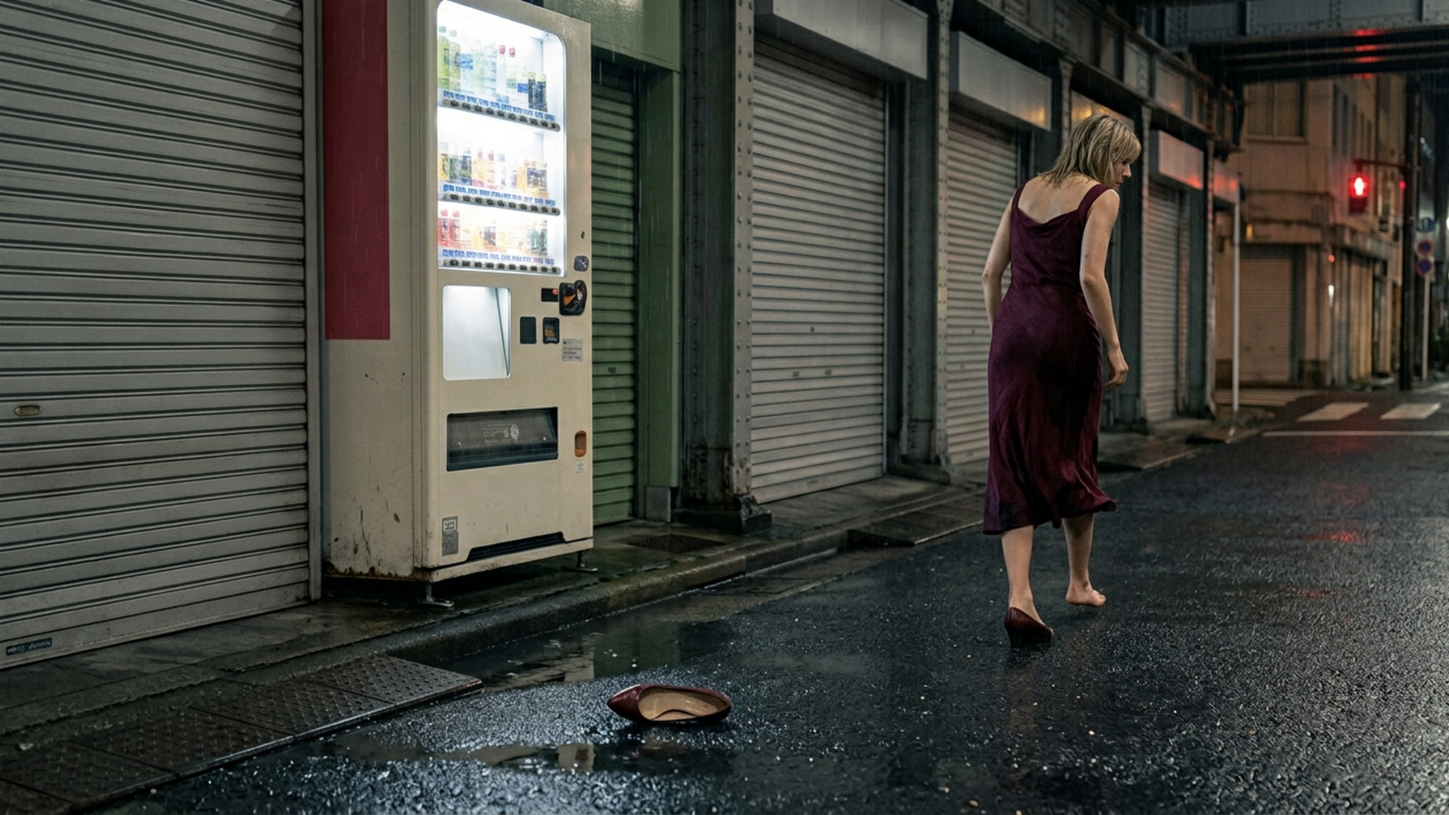
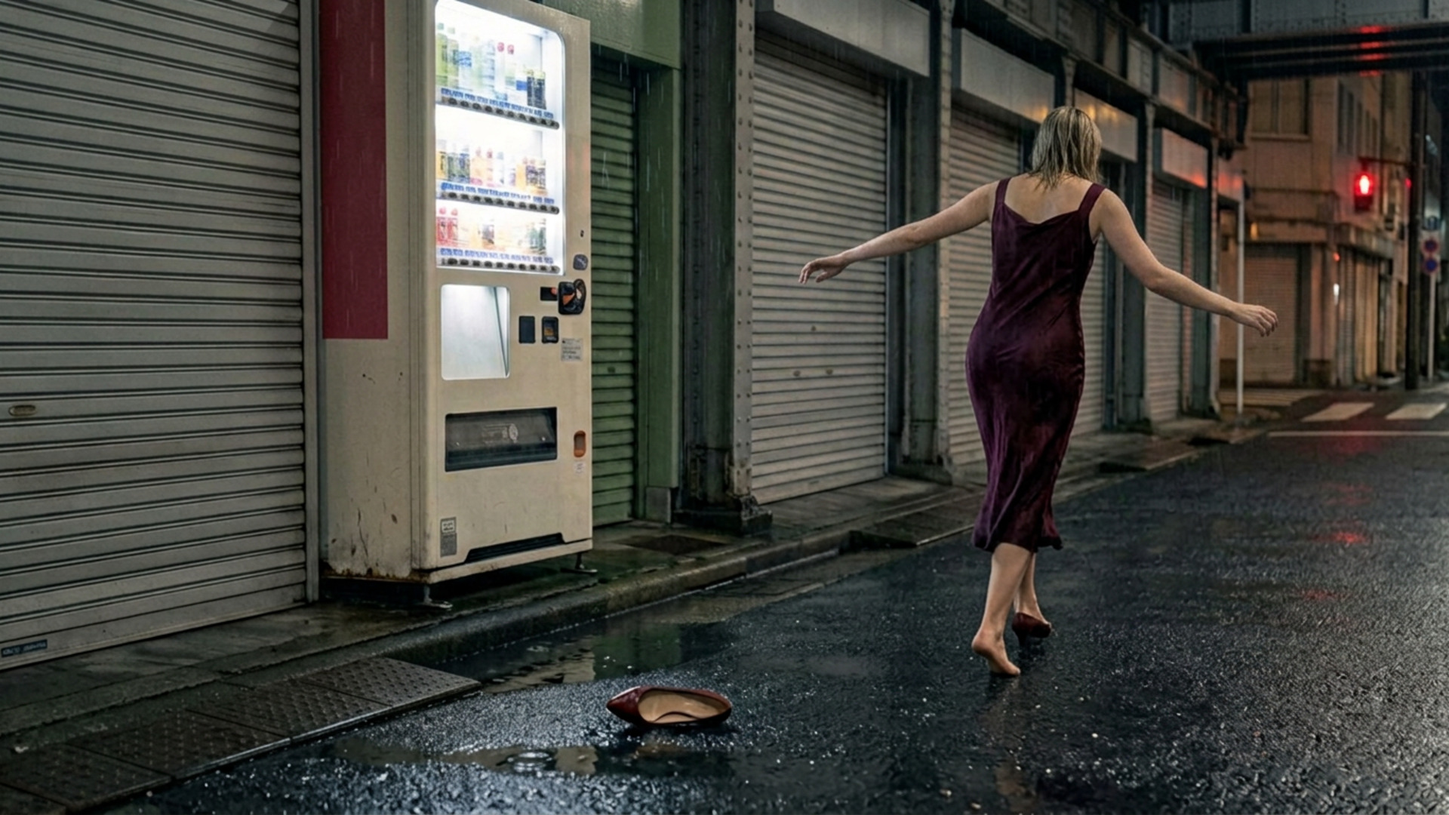
Tokyo Story colour revision, session two: scenes 72–75 keyframes complete
Eight generation calls (two slots held back): the six pending replacements —
69-vera-runs, 71-the-machine-glows, 76-the-reflection, 79-the-hive-shut,
80-the-machine-waits, 81-static-in-a-window — plus two continuity replacements
the previous session's review failed: 72-the-lost-heel regenerated to match the
shot-79 puddle/drain/shoe lock with a real stumble, and 74-twenty-metres-apart
regenerated so the scripted twenty-metre separation is actually pictured at
distance (the old study staged ~5m and carried a stray red smear).

All frames static, low and level; 50mm throughout, 35mm kept only for the
aftermath extreme wide. Makeup dry and pretty until the rain; RIGHT foot bare,
LEFT shoe retained after the skid. 86/86 keyframes now on disk, no placeholders.
Boards, scene metadata, pass index, handoff and revision ledger updated;
streetsPassTwoImages is the session-two audit list; verify asserts completion.

diff --git a/docs/neonoire/passes/tokyo-streets-revision.md b/docs/neonoire/passes/tokyo-streets-revision.md
@@ -1,12 +1,73 @@
-# Scenes 72–75 — Tokyo Story in colour, revision session 1
+# Scenes 72–75 — Tokyo Story in colour, revision session 2
 
-**25 September 2026 · 10 generation calls used · 9 shot images + 1 Jack identity sheet**
+**25 September 2026 · 8 generation calls used · 6 needed shots + 2 continuity replacements**
 
-The user requested replacement images, character/location continuity, pretty makeup until the rain, 16:9, and camera changes toward *Tokyo Story* without black and white. The previous street images and old rain/cutaway style keys were **not** generation references. The screenplay remains byte-for-byte unchanged.
+Session one left six empty slots and two keyframes that did not hold up under review. This session
+completes the sequence. The user asked for the needed shots, replacements for anything that did not
+seem right, character and scene consistency, pretty makeup until the rain, 16:9, and a *Tokyo Story*
+style (in colour) carried through the lens selection: static, low and **level**, normal 50mm — 35mm
+only for the aftermath extreme wide. The screenplay remains byte-for-byte unchanged.
 
 ## Delivered
 
-All ten generated masters are delivered as full-bleed **1920×1080 JPEG**. Jack's face crop and the review contact sheet are derived from those masters, not additional generation calls.
+All eight generated masters are delivered as full-bleed **1920×1080 JPEG**; two generation slots were
+deliberately unused. No new cast sheets were needed.
+
+| Board shot | Scene | Image under `public/images/neonoire/` | Notes / continuity |
+| --- | --- | --- | --- |
+| 71 | 73 | `s73/69-vera-runs.jpg` | Hotel threshold; makeup still pretty and intact, both shoes; amber doorway vs cold street |
+| 73 | 73 | `s73/71-the-machine-glows.jpg` | Static machine frame from the run master; Vera passes L→R; both shoes; thin washed mascara |
+| 74 | 73 | `s73/72-the-lost-heel.jpg` | **Continuity replacement** — regenerated so puddle, drain, kerb and shoe orientation match `s75/77-the-red-shoe.jpg`; genuine stumble, RIGHT bare / LEFT shod |
+| 75 | 74 | `s74/74-twenty-metres-apart.jpg` | **Continuity replacement** — the scripted twenty-metre stop now actually pictured at distance; the old study staged ~5m and carried a stray red smear on the asphalt |
+| 78 | 74 | `s74/76-the-reflection.jpg` | Water-level insert; inverted street with warm anomalies and an unreadable pale-blue umbrella figure; no person directly visible |
+| 81 | 75 | `s75/79-the-hive-shut.jpg` | Intact closed Hive; dim unreadable sign; no people, no demolition |
+| 82 | 75 | `s75/80-the-machine-waits.jpg` | Same ivory machine, matched panels; nobody, no relocated shoe |
+| 83 | 75 | `s75/81-static-in-a-window.jpg` | Grey CRT static in a colour night; no face, no programme; then CUT TO BLACK |
+
+Review: `public/images/neonoire/reviews/tokyo-story-72-75-pass-2.jpg` — all fifteen scenes 72–75
+frames plus Jack's face sheet.
+
+## Superseded images
+
+The session-one `s73/72-the-lost-heel.jpg` (calm walk, barely raining, shoe adrift mid-road away from
+the drain its own pillow shot had locked) and `s74/74-twenty-metres-apart.jpg` (~5m separation, red
+smear) are **replaced on disk**; the old files no longer exist anywhere in the tree and must not be
+restored or referenced.
+
+## State after this session
+
+Every scene 72–75 keyframe is on disk — **86 of 86 active keyframes board-wide, no placeholders**.
+Remaining revision work elsewhere is unchanged: cold-open shots 11–28 and scene 3 are still legacy
+2.39:1 studies awaiting their own 16:9 pass.
+
+## Locks (unchanged)
+
+- **Vera:** canonical face; wine-red silk broad-strap cowl-neck calf-length dress; makeup dry and
+  pretty through scene 72, washed by rain into thin mascara trails only outdoors; RIGHT foot bare /
+  LEFT shoe retained from the skid onward; no coat or umbrella on the street.
+- **Jack:** `sheets/jack.jpg`; 48, Japanese casting, charcoal knee-length coat, dark unwashed hands;
+  screen-right of Vera; never retaliates.
+- **Geography:** run machine (muted red side panel, right payment panel, dull-green shutter, drain,
+  shallow gutter) and confrontation street (two machines left, awning right) as locked in session one.
+- **Camera:** all static, low and level; 50mm except `neonoire-shot-73` at 35mm. No tracking, no
+  hero angles, no black-and-white, no glossy neon.
+
+## Integration
+
+Stable frame IDs and asset names are unchanged; the two replaced files keep their names. The builder
+marks the eight session-two images in each frame's notes, and the mood board now carries all fifteen
+studies. `streetsPassTwoImages` in `scripts/neonoire/streets-look.mjs` is the session-two audit list.
+
+```bash
+npm run build:neonoire
+npm run verify:neonoire
+npm run check:assets
+```
+
+
+## Session one archive — delivered
+
+All ten generated masters were delivered as full-bleed **1920×1080 JPEG**. Jack's face crop and the review contact sheet are derived from those masters, not additional generation calls.
 
 | Board shot | Scene | Image under `public/images/neonoire/` | References / continuity |
 | --- | --- | --- | --- |
@@ -23,9 +84,9 @@ All ten generated masters are delivered as full-bleed **1920×1080 JPEG**. Jack'
 
 Review: `public/images/neonoire/reviews/tokyo-story-72-75-pass-1.jpg`.
 
-## Next session — six replacements, not six finished images
+## Session one archive — the six slots (all delivered in session two)
 
-All six superseded files have been removed; their cards are empty, labelled **keyframe missing**, **Needs review**. Do not restore or borrow an older image to satisfy an asset check.
+At the end of session one all six superseded files had been removed; their cards were empty, labelled **keyframe missing**, **Needs review**. Session two generated every one of them at the exact paths below — none was restored or borrowed from an older image.
 
 | Board shot | Stable frame ID | Scene | Required image | Brief |
 | --- | --- | --- | --- | --- |
@@ -36,9 +97,9 @@ All six superseded files have been removed; their cards are empty, labelled **ke
 | 82 | `neonoire-shot-80` | 75 | `s75/80-the-machine-waits.jpg` | Same ivory machine from new run master, nobody |
 | 83 | `neonoire-shot-81` | 75 | `s75/81-static-in-a-window.jpg` | Grey CRT static, no human reflection, then black |
 
-Self-contained generation briefs: [pass 8](pass-8.md), [pass 9](pass-9.md). These are **board-index groups**, not a claim that the first revision session generated sequential shots. Finish all six within one later ten-image session; Jack need not be regenerated.
+Self-contained generation briefs: [pass 8](pass-8.md), [pass 9](pass-9.md) — both now historical, marked completed. These were **board-index groups**, not a claim that the first revision session generated sequential shots. The six were finished in session two alongside the two continuity replacements; Jack was not regenerated.
 
-## Locks
+## Session one archive — locks
 
 - **Vera:** canonical ash-blonde face/fringe/blue eyes. The new wine-red silk dress has broad straps, a modest cowl neck, calf-length bias-cut skirt, no slit. Low wine-red closed-toe court heels. No change of face or neckline between dry/wet states.
 - **Makeup:** dry, groomed, pretty and intact in 72. Only outdoor rain undoes it in 73; thin washed mascara, not a horror mask. Keep the same face beneath it.
@@ -49,13 +110,13 @@ Self-contained generation briefs: [pass 8](pass-8.md), [pass 9](pass-9.md). Thes
 - **Camera:** all static, low **and level**. `Low, level` is now an actual app angle, not the old low-angle prompt that tilts up and makes a subject powerful. 50mm except 35mm for the distant aftermath. One earned frontal face shot in the lounge; no camera chases or comforts Vera.
 - **Colour:** muted olive, tobacco amber, ivory practical light, black rainwater and wine red. No black-and-white or glossy neon treatment.
 
-## Review caveats
+## Session one archive — review caveats
 
 These are AI-generated draft studies, not approved coverage. Shot 75's image studies the approach at a closer distance, not the scripted initial twenty-metre stop. Stage that opening distance explicitly. Shot 76's keyframe samples the blow, while its take must also cover folding and rejection. Shot 77 samples the distant aftermath; the reflection insert returns to that same camera for the train and late score. Precise clock hands remain a prop/compositing check.
 
 The generated call image invented a second counter at the bottom; the delivered image is a chest-up reframe excluding it. Use **the waiting master**, not the uncropped call generation, as the hotel layout reference. No extra generation was used to make the crop.
 
-## Integration
+## Session one archive — integration
 
 Scene 72 adds two board positions. Global display numbers are now **1–86**, but all existing frame IDs and asset names stay stable, including scene 76's unchanged IDs 82–84. Never infer the running order from a filename prefix or a frame ID. The board's `ID:` field makes this explicit.
 

diff --git a/docs/neonoire/handoff.md b/docs/neonoire/handoff.md
@@ -2,9 +2,9 @@
 
 ## Current state — 25 September 2026
 
-The final screenplay is `Neonoire (3).fountain`: **100 scenes**, unchanged. The numbered board covers **12 scenes, 86 shots**: scenes 1–7 and 72–76. **80 shot images are active; six replacement slots are empty.** All newly delivered images are full-bleed 16:9, 1920×1080 JPEG.
+The final screenplay is `Neonoire (3).fountain`: **100 scenes**, unchanged. The numbered board covers **12 scenes, 86 shots**: scenes 1–7 and 72–76. **All 86 shot images are on disk; no placeholder slots remain.** All images are full-bleed 16:9, 1920×1080 JPEG.
 
-The current task is the [Tokyo Story colour revision of scenes 72–75](passes/tokyo-streets-revision.md), not the old streets pass. Read that ledger first: it records exactly ten generation calls (Jack + nine shots), the six remaining replacements, the new masters and honest production-review caveats.
+The [Tokyo Story colour revision of scenes 72–75](passes/tokyo-streets-revision.md) is **complete in two sessions**: ten generation calls (Jack's sheet + nine shots), then eight (the six remaining replacements plus the lost-heel and twenty-metre continuity replacements). Read that ledger for the masters, the locks and the honest production-review caveats.
 
 | Material | Location |
 | --- | --- |
@@ -16,16 +16,20 @@ The current task is the [Tokyo Story colour revision of scenes 72–75](passes/t
 | Importable project | `public/projects/neonoire-opening.json` |
 | Remaining generation prompts | [pass 8](passes/pass-8.md), [pass 9](passes/pass-9.md) |
 
-## Next images: six, within one later ten-image session
+## Next images: none in scenes 72–75 — the revision is complete
+
+Session two delivered the six pending shots and replaced two that failed review:
 
 1. Board 71 — `s73/69-vera-runs.jpg`: hotel exit, makeup still mostly intact, both shoes.
 2. Board 73 — `s73/71-the-machine-glows.jpg`: Vera passes through a static machine frame.
-3. Board 78 — `s74/76-the-reflection.jpg`: umbrella only in an ambiguous reflection, face never resolved.
-4. Board 81 — `s75/79-the-hive-shut.jpg`: intact closed Hive, no people, not yet demolished.
-5. Board 82 — `s75/80-the-machine-waits.jpg`: same new ivory machine, nobody.
-6. Board 83 — `s75/81-static-in-a-window.jpg`: grey CRT static in a colour night, no people, then black.
+3. Board 74 — `s73/72-the-lost-heel.jpg` **(replaced)**: regenerated to match shot 79's locked puddle, drain and shoe orientation; a real stumble, RIGHT foot bare.
+4. Board 75 — `s74/74-twenty-metres-apart.jpg` **(replaced)**: the scripted twenty-metre separation now actually pictured at distance; the old ~5m study and its asphalt smear are gone.
+5. Board 78 — `s74/76-the-reflection.jpg`: umbrella only in an ambiguous reflection, face never resolved.
+6. Board 81 — `s75/79-the-hive-shut.jpg`: intact closed Hive, no people, not yet demolished.
+7. Board 82 — `s75/80-the-machine-waits.jpg`: same new ivory machine, nobody.
+8. Board 83 — `s75/81-static-in-a-window.jpg`: grey CRT static in a colour night, no people, then black.
 
-The old versions were deliberately removed at the user's request. Do not restore them, substitute neighbouring images or call these slots finished. Jack has a completed sheet and does not need another generation.
+Do not regenerate these without a new instruction, and do not restore any superseded image. Jack has a completed sheet and does not need another generation. What still awaits its own pass: cold-open shots 11–28 and scene 3 (legacy 2.39:1 studies), tracked in [cold-open-revision.md](passes/cold-open-revision.md).
 
 ## Camera and look
 
@@ -38,10 +42,15 @@ The confrontation runs **stop/approach → chest blows, folding and rejected tou
 For this sequence, attach **new masters and cast sheets only**. Ignore the superseded street pictures and older rain/cutaway style keys:
 
 - `s72/69-the-wait.jpg`: hotel, dry hair/makeup and wine-red silk dress.
+- `s73/69-vera-runs.jpg`: the hotel threshold; makeup still pretty, both shoes.
 - `s73/70-not-elegantly-badly.jpg`: rainy run, ivory machine/green shutter/railway geography.
-- `s73/72-the-lost-heel.jpg`: shoe, shallow puddle, kerb and drain.
-- `s74/74-twenty-metres-apart.jpg`: confrontation architecture; the pictured approach is closer than the initial scripted 20m stop.
+- `s73/71-the-machine-glows.jpg`: the machine frame with Vera passing; both shoes.
+- `s73/72-the-lost-heel.jpg`: shoe, shallow puddle, kerb and drain — session-two version matching `s75/77-the-red-shoe.jpg`.
+- `s74/74-twenty-metres-apart.jpg`: confrontation architecture; session-two version with the scripted 20m gap on screen.
+- `s74/75-one-desperate-blow.jpg`: the chest blow at bystander distance.
 - `s74/73-two-small-figures.jpg`: distant separated aftermath.
+- `s74/76-the-reflection.jpg`: the almost-reflection, water only.
+- `s75/77-the-red-shoe.jpg`, `s75/78-the-empty-lounge.jpg`, `s75/79-the-hive-shut.jpg`, `s75/80-the-machine-waits.jpg`, `s75/81-static-in-a-window.jpg`: the five pillow shots.
 
 ## Character continuity
 

diff --git a/docs/neonoire/scenes/n73-tokyo-streets.md b/docs/neonoire/scenes/n73-tokyo-streets.md
@@ -8,7 +8,7 @@ The [screenplay page](../screenplay/n73-tokyo-streets-night.md) is unchanged.
 
 Vera's face is locked to `sheets/vera-face.jpg`; dress and shoes to the new `s72/69-the-wait.jpg`. Her pretty intact makeup survives the lounge and begins to wash away only after she enters rain. Thin diluted mascara trails, wet shoulder-length hair, no horror-mask streaks. **RIGHT shoe is lost; LEFT shoe remains** from shot 74 onward. The screenplay does not specify a side; this is the image-continuity lock.
 
-First session: **72 and 74 replaced**. **71 and 73 await regeneration**; old images have been removed from the active board. Asset prefixes and stable IDs retain the older numbering; the displayed shot numbers below include the newly boarded scene 72.
+First session: **72 and 74 replaced**. Second session (this pass): **71 and 73 replaced** — all four shots of scene 73 are now regenerated in the revised grammar; the old 35mm tracking studies are gone entirely.
 
 ---
 
@@ -20,7 +20,7 @@ LIGHT: Practical night
 TIME: 10
 ID: neonoire-shot-69
 IMAGE: 69-vera-runs.jpg
-NOTE: REPLACEMENT PENDING — generate from the NEW hotel master s72/69-the-wait.jpg and sheets/vera-face.jpg, not the discarded street study. The pale-blue umbrella stays inside the hotel; no bag or coat appears on Vera. Camera stays low and level, not an upward hero angle. No score.
+NOTE: Replacement generated in session two from the NEW hotel master s72/69-the-wait.jpg and sheets/vera-face.jpg, not the discarded street study. The pale-blue umbrella stays inside the hotel; no bag or coat appears on Vera. Camera stays low and level, not an upward hero angle. Makeup is still pretty and intact at the threshold; only the rain undoes it. No score.
 
 72. FULL — 50mm, static, low level — badly, in heels.
 From a locked low level camera at 75cm, Vera's full figure stumbles through a still architectural frame beside a scuffed ivory vending machine and dull-green shutter under riveted railway beams. Her right hand briefly presses her chest because she cannot breathe, and she forces herself onward. Same wine-red cowl-neck calf-length silk dress, both low red court shoes still on. Rain plasters her ash-blonde fringe and begins washing the mascara into thin natural trails. The machine's cold white light, not the sky, finds her face.
@@ -40,7 +40,7 @@ LIGHT: Practical night
 TIME: 8
 ID: neonoire-shot-71
 IMAGE: 71-the-machine-glows.jpg
-NOTE: REPLACEMENT PENDING — use NEW s73/70-not-elegantly-badly.jpg for machine geometry and sheets/vera-face.jpg for identity, never the old image or an old style key. No tracking. Hold the architecture after she passes; this sets up the empty-machine pillow shot 82.
+NOTE: Replacement generated in session two from NEW s73/70-not-elegantly-badly.jpg for machine geometry and sheets/vera-face.jpg for identity, never the old image or an old style key. No tracking. She still wears BOTH shoes here; mascara has begun to wash into thin trails. Hold the architecture after she passes; this sets up the empty-machine pillow shot 82.
 
 74. FULL — 50mm, static, low level — one shoe left behind.
 A fixed low level camera at 35cm holds the shallow gutter puddle as Vera stumbles away toward the crossing. Her RIGHT red closed-toe court shoe lies on its side in the foreground, toe left and heel right, beside a rectangular drain grate under the ivory vending machine's light. Her RIGHT foot is now bare; LEFT shoe remains. Same wet calf-length wine-red silk dress and soaked shoulder-length blonde hair. She runs on, leaving the shoe and the frame behind.
@@ -50,4 +50,4 @@ LIGHT: Practical night
 TIME: 12
 ID: neonoire-shot-72
 IMAGE: 72-the-lost-heel.jpg
-NOTE: Replacement generated. Lock this exact shoe, side, puddle, kerb, machine base and drain for shot 79. No detached second shoe; no new shoes for the confrontation. The signal is red, but not a wash of red theatrical light. Keyframe is after the skid, not the injury itself. Same side of the action throughout.
+NOTE: Replacement regenerated in session two so the puddle, kerb, drain grate and shoe orientation now match the shot 79 still life exactly. Lock this exact shoe, side, puddle, kerb, machine base and drain for shot 79. No detached second shoe; no new shoes for the confrontation. The signal is red, but not a wash of red theatrical light. Keyframe is after the skid, not the injury itself. Same side of the action throughout.

diff --git a/docs/neonoire/scenes/n75-still-frames.md b/docs/neonoire/scenes/n75-still-frames.md
@@ -6,7 +6,7 @@ The [screenplay page](../screenplay/n75-ext-various-night-series-of-shots.md) is
 
 **Shots 79–83**, 1920×1080 full-bleed. Five low level 50mm static pillow shots, no people, no camera movements. Colour rather than monochrome: ivory practicals, restrained amber, dull green, black rainwater and one wine-red shoe. The objects are not dramatic inserts with spotlighting; they are the city continuing without her.
 
-**79–80 replaced in this session. 81–83 await regeneration**, with old images removed rather than presented as revised. No people anywhere, including in reflections, windows or small background silhouettes. The Hive remains whole: it is shut, not the demolition later in the script.
+**79–83 replaced in this session.** The five pillow shots are complete, and the series is whole: no people anywhere, including in reflections, windows or small background silhouettes. The Hive remains whole: it is shut, not the demolition later in the script.
 
 ---
 
@@ -38,7 +38,7 @@ LIGHT: Practical night
 TIME: 9
 ID: neonoire-shot-79
 IMAGE: 79-the-hive-shut.jpg
-NOTE: REPLACEMENT PENDING — do not use the discarded image or invent a ruined building. Draw the night from the new street master, but do not transplant the hotel's architecture. Keep the old sign dim and unreadable; the script has three more days before demolition.
+NOTE: Replacement generated in session two. Do not use the discarded image or invent a ruined building. The night palette is drawn from the new street masters, but the hotel's architecture is not transplanted here: this is its own old noodle-shop front under an ordinary dark tower. The old sign stays dim and unreadable; the script has three more days before demolition.
 
 82. FULL — 50mm, static, low level — the machine, waiting.
 A low level static 50mm camera at 70cm holds the SAME scuffed ivory vending machine from the run, full height, with its muted red side strip, cold drinks display, payment panel on the right, green shutter and shallow gutter. The machine is lit, rain falls through it, and no one passes or appears in reflection.
@@ -48,7 +48,7 @@ LIGHT: Practical night
 TIME: 8
 ID: neonoire-shot-80
 IMAGE: 80-the-machine-waits.jpg
-NOTE: REPLACEMENT PENDING — attach NEW s73/70-not-elegantly-badly.jpg and s75/77-the-red-shoe.jpg, not a legacy style key. Match machine proportions, panels, kerb and cold light. No red shoe relocated to a new puddle or inserted unnecessarily; this is the machine, not a repeat of shot 79.
+NOTE: Replacement generated in session two from NEW s73/70-not-elegantly-badly.jpg, not a legacy style key. Machine proportions, red side panel, right-hand payment panel, green shutter, kerb and cold light all match the run master. No red shoe relocated to a new puddle or inserted unnecessarily; this is the machine, not a repeat of shot 79.
 
 83. INSERT — 50mm, static, low level — snow in a shop window.
 From a low level locked camera at 70cm, a small old boxy CRT sits inside a dark shop window showing only grey static. Wet glass reflects indistinct empty street architecture, not a person. Enough window frame remains around the television to read as a place, not a floating screen. Restrained muted colour surrounds the grey snow.
@@ -58,4 +58,4 @@ LIGHT: Practical night
 TIME: 7
 ID: neonoire-shot-81
 IMAGE: 81-static-in-a-window.jpg
-NOTE: REPLACEMENT PENDING — ignore the old study. Same practical-light colour grammar, no programme, face, news ticker or readable overlay. Then CUT TO BLACK as the screenplay specifies; do not generate a title card or a sixth montage image.
+NOTE: Replacement generated in session two. Same practical-light colour grammar, no programme, face, news ticker or readable overlay. Then CUT TO BLACK as the screenplay specifies; do not generate a title card or a sixth montage image.

diff --git a/docs/neonoire/scenes/n74-empty-street-under-the-tracks.md b/docs/neonoire/scenes/n74-empty-street-under-the-tracks.md
@@ -10,7 +10,7 @@ The sequence is now in dramatic order: stop/approach → blows/folding/rejection
 
 Vera: canonical face, rain-ruined makeup, soaked wine-red silk dress; RIGHT foot bare, LEFT court shoe on. Jack: `sheets/jack.jpg` and `jack-face.jpg`, age 48, an original Japanese casting design for the former detective, not the Voss father. The actual father is Daniel Voss. No replacement father/daughter relationship is invented.
 
-**75–77 generated; 78 pending.** The nine shot images plus Jack's sheet exhaust this session's ten generations. Stable IDs and asset names are retained even though the board order now follows the action correctly. These remain AI-generated draft studies; exact blocking distances require production review.
+**75–78 generated.** The nine shot images plus Jack's sheet (session one) and this session's eight generations complete the scene. Stable IDs and asset names are retained even though the board order now follows the action correctly. These remain AI-generated draft studies; shot 75's keyframe was regenerated in session two so the opening twenty-metre stop is now actually pictured at distance — the production caveats below keep only what still needs eyes.
 
 ---
 
@@ -22,7 +22,7 @@ LIGHT: Practical night
 TIME: 26
 ID: neonoire-shot-74
 IMAGE: 74-twenty-metres-apart.jpg
-NOTE: Replacement generated. The keyframe studies a pause during her approach, closer than the scripted initial twenty-metre stop; it is NOT evidence that the opening blocking distance is solved. Stage the opening gap at twenty metres in production. Static camera, not a tracking approach. This is the revised location master: two machines left, awning right, riveted columns and grey shutters. She says Don't; he stops. No score.
+NOTE: Replacement regenerated in session two. The keyframe now pictures the scripted opening separation itself: Vera small by the two machines screen-left, Jack small under the awning screen-right, the empty shining street carrying a third of the frame between them — the twenty-metre gap is on screen, not deferred to production staging. She says Don't; he stops. No score. No blood, no injury smear on the asphalt.
 
 76. WIDE — 50mm, static, low level — one desperate blow, then the hands fall.
 Low level locked 50mm full-body two-shot at 70cm, with room around both figures. Vera has crossed to Jack and presses one desperate fist into his chest. He takes it without lifting his hands. Wet ash-blonde hair, thin washed mascara trails, same dark wine-red calf-length silk dress, RIGHT foot bare and LEFT red court heel. Hold the same setup through the weaker blows, her folding to the pavement, the brief grasp of his coat and her rejection. He kneels but does not touch her again.
@@ -52,4 +52,4 @@ LIGHT: Practical night
 TIME: 4
 ID: neonoire-shot-76
 IMAGE: 76-the-reflection.jpg
-NOTE: REPLACEMENT PENDING — ignore the old reflection study. Use only the new street and umbrella masters; face deliberately unreadable. The altered reflection lasts less than one second WITHIN this four-second working insert, never four seconds of a visible ghost. Return to shot 77's locked camera for the train and the late score. This is uncertainty, not an explained supernatural event.
+NOTE: Replacement generated in session two from the new aftermath master and the pale-blue umbrella reference; the face is deliberately unreadable and no person is directly visible — only the water. The altered reflection lasts less than one second WITHIN this four-second working insert, never four seconds of a visible ghost. Return to shot 77's locked camera for the train and the late score. This is uncertainty, not an explained supernatural event.

diff --git a/docs/neonoire/passes/README.md b/docs/neonoire/passes/README.md
@@ -2,14 +2,9 @@
 
 Generated by `node scripts/neonoire/pass-prompts.mjs`, from the numbered boards in [../scenes](../scenes) and the neonoire style in src/lib/styles.ts. Each file is self-contained: filenames, framing, cast sheets, the prompt, and the negative prompt for every shot in that pass.
 
-**80 of 86 keyframes are on disk.** 6 remain, in 2 passes of at most ten frames.
+**86 of 86 keyframes are on disk.** Every active shot has been generated. The remaining revision work — cold-open shots 11–28 and scene 3 — is legacy 2.39:1 studies awaiting regeneration, tracked in [cold-open-revision.md](cold-open-revision.md).
 
-| pass | shots | scenes | file |
-| --- | --- | --- | --- |
-| 8 | 71–78 | Sc 73, Sc 74 | [pass-8.md](pass-8.md) |
-| 9 | 81–83 | Sc 75 | [pass-9.md](pass-9.md) |
-
-The first Tokyo Story colour session used exactly ten generation calls: Jack plus nine shot images. Six replacement shots remain; read [the revision handoff](tokyo-streets-revision.md). Older pass files 3–7 are historical, not a request to regenerate finished images. Cold-open shots 11–28 and scene 3 separately remain legacy 2.39:1 studies pending their own revision; see [cold-open-revision.md](cold-open-revision.md).
+The Tokyo Story colour revision of scenes 72–75 completed in two sessions on 25 September 2026: ten generation calls (Jack's sheet plus nine shot studies), then eight (the six remaining replacements plus the lost-heel and twenty-metre continuity replacements), two slots deliberately unused. Read [the revision handoff](tokyo-streets-revision.md). Older pass files are historical briefs, not a request to regenerate finished images. Cold-open shots 11–28 and scene 3 separately remain legacy 2.39:1 studies pending their own revision; see [cold-open-revision.md](cold-open-revision.md).
 
 ## The cast sheets, and what must not drift
 

diff --git a/docs/neonoire/README.md b/docs/neonoire/README.md
@@ -27,7 +27,7 @@
 | Workspace bundle | [`public/projects/neonoire-opening.json`](../../public/projects/neonoire-opening.json) |
 | Next-agent handoff | [`handoff.md`](handoff.md), [revision ledger](passes/tokyo-streets-revision.md) |
 
-**80 of 86 shot images are active.** Of the existing opening images, shots 11–28 and scene 3 are still legacy 2.39:1 studies pending their separate 16:9 revision; see [cold-open-revision.md](passes/cold-open-revision.md). Scene 76 images are unchanged by the current pass. Neither group is claimed as freshly regenerated.
+**All 86 shot images are on disk** — the Tokyo Story colour revision of scenes 72–75 completed in two sessions (10 + 8 generation calls). Of the existing opening images, shots 11–28 and scene 3 are still legacy 2.39:1 studies pending their separate 16:9 revision; see [cold-open-revision.md](passes/cold-open-revision.md). Scene 76 images are unchanged by the current pass. Neither group is claimed as freshly regenerated.
 
 ## Opening the revision
 

diff --git a/docs/neonoire/passes/pass-8.md b/docs/neonoire/passes/pass-8.md
@@ -1,5 +1,10 @@
 # NEONOIRE — keyframe pass 8
 
+> **COMPLETED — 25 September 2026.** Every shot briefed here is on disk. Session two delivered the
+> remaining replacements (and regenerated the lost-heel and twenty-metre keyframes for continuity);
+> this file is kept as a historical record of the briefs, not a request to regenerate anything.
+> See [tokyo-streets-revision.md](tokyo-streets-revision.md).
+
 3 shots still to generate: shots 71–78, from scene 73 (EXT. TOKYO STREETS) and scene 74 (EXT. EMPTY STREET UNDER THE TRACKS).
 
 **Before you start**

diff --git a/docs/neonoire/passes/pass-9.md b/docs/neonoire/passes/pass-9.md
@@ -1,5 +1,10 @@
 # NEONOIRE — keyframe pass 9
 
+> **COMPLETED — 25 September 2026.** Every shot briefed here is on disk. Session two delivered the
+> remaining replacements (and regenerated the lost-heel and twenty-metre keyframes for continuity);
+> this file is kept as a historical record of the briefs, not a request to regenerate anything.
+> See [tokyo-streets-revision.md](tokyo-streets-revision.md).
+
 3 shots still to generate: shots 81–83, from scene 75 (INT./EXT. VARIOUS).
 
 **Before you start**
